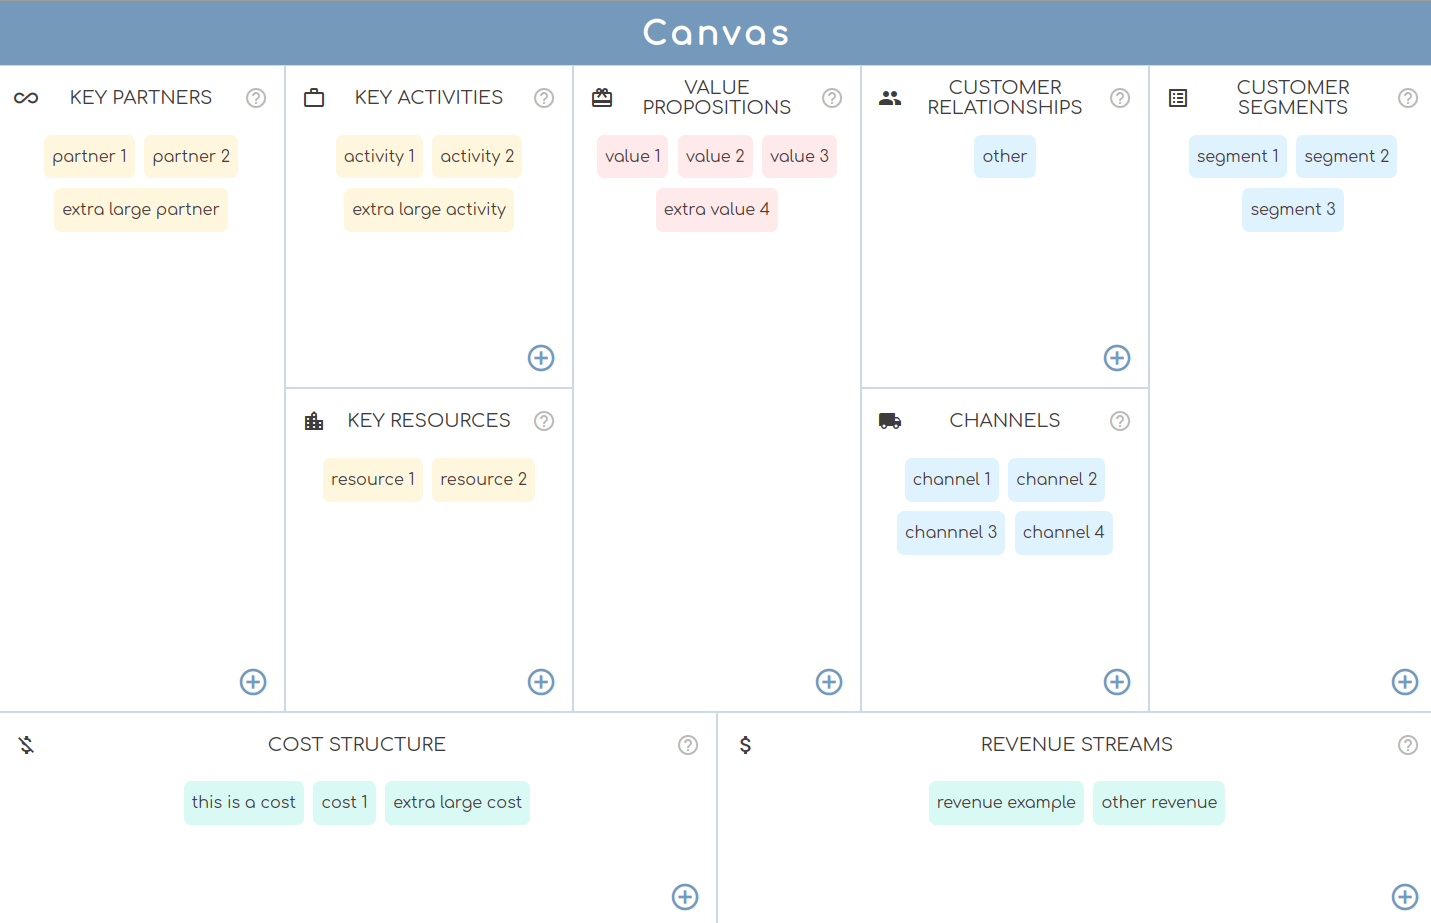
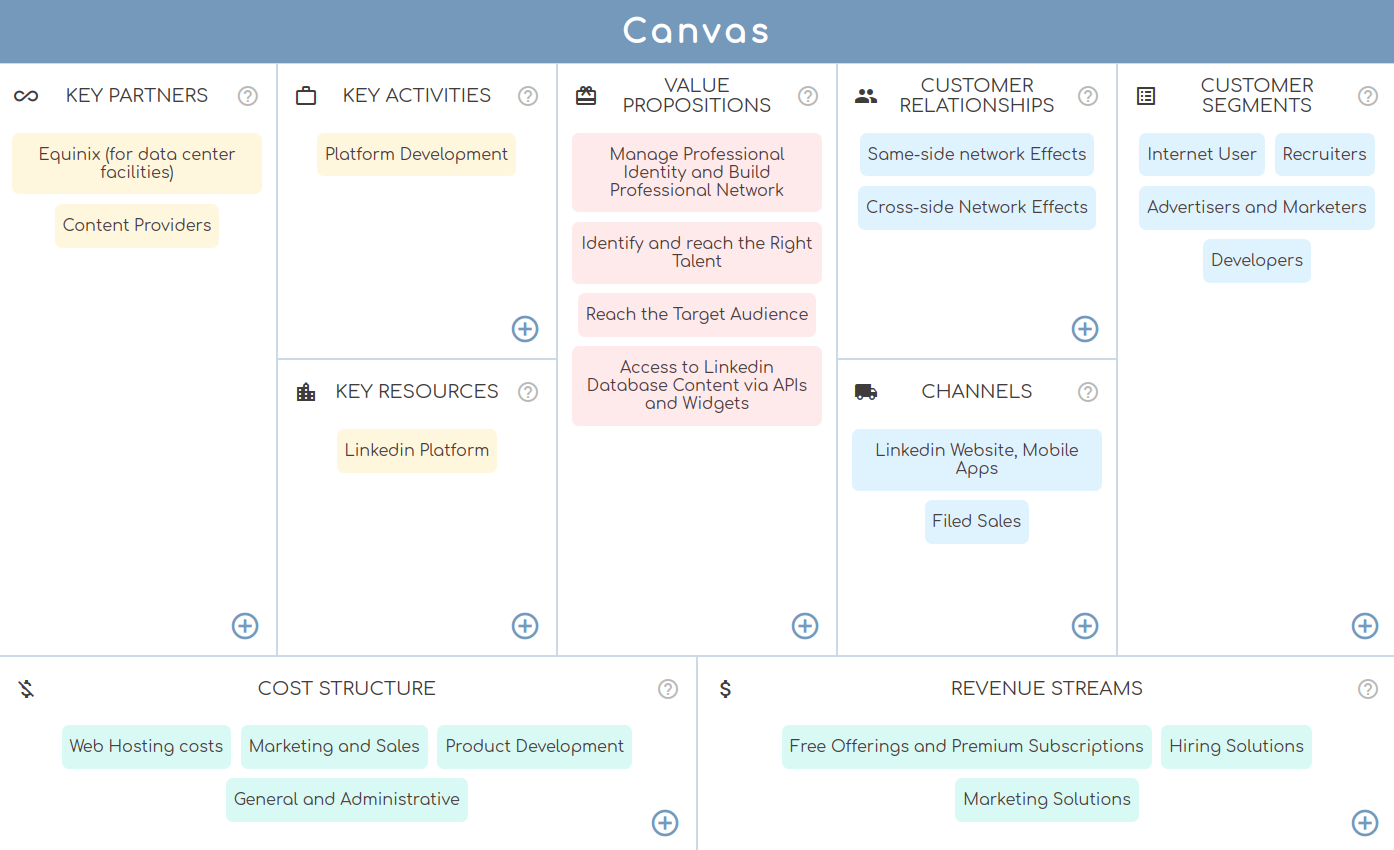
edit readme and change main picture

diff --git a/README.md b/README.md
@@ -1,6 +1,7 @@
 # Canvas
 
 ![Main](./canvas-doc/img/canvas.png)
+Linkedin Canvas example
 
 ## Introduction
 
@@ -50,7 +51,7 @@ npm i
 
 You need to keep opened 3 terminal windows at the same time.
 
-1- From the folder you have installed the data base MongoDB. Enter in the forlder, and inside of 'bin', run the following command. This keeps your data base on.
+1- From the folder you have installed the database MongoDB. Enter in the forlder, and inside of 'bin', run the following command. This keeps your data base on.
 
 ➜  bin
 ```
@@ -94,7 +95,7 @@ npm run test:coverage
 
 We need to connect the test daba base from the backend, to the frontend test, so is needed to do a litle change in the file '.env' located in the folder 'canvas-api'.
 
-The folders '.env' are privated and included in '.gitignore' in a real proyect, but, in this project, I didn't included them for accesibility purposes.
+The folders '.env' are privated and included in '.gitignore' in a real proyect, but, in this project, I didn't include them for accesibility purposes.
 
 Switch the '#' to allow connect to test. Remember to restart the server after that:
 

diff --git a/canvas-doc/README.md b/canvas-doc/README.md
@@ -1,6 +1,7 @@
 # Canvas
 
 ![Main](./img/canvas.png)
+Linkedin Canvas example
 
 ## Introduction
 
@@ -50,7 +51,7 @@ npm i
 
 You need to keep opened 3 terminal windows at the same time.
 
-1- From the folder you have installed the data base MongoDB. Enter in the forlder, and inside of 'bin', run the following command. This keeps your data base on.
+1- From the folder you have installed the database MongoDB. Enter in the forlder, and inside of 'bin', run the following command. This keeps your data base on.
 
 ➜  bin
 ```
@@ -94,7 +95,7 @@ npm run test:coverage
 
 We need to connect the test daba base from the backend, to the frontend test, so is needed to do a litle change in the file '.env' located in the folder 'canvas-api'.
 
-The folders '.env' are privated and included in '.gitignore' in a real proyect, but, in this project, I didn't included them for accesibility purposes.
+The folders '.env' are privated and included in '.gitignore' in a real proyect, but, in this project, I didn't include them for accesibility purposes.
 
 Switch the '#' to allow connect to test. Remember to restart the server after that:
 
